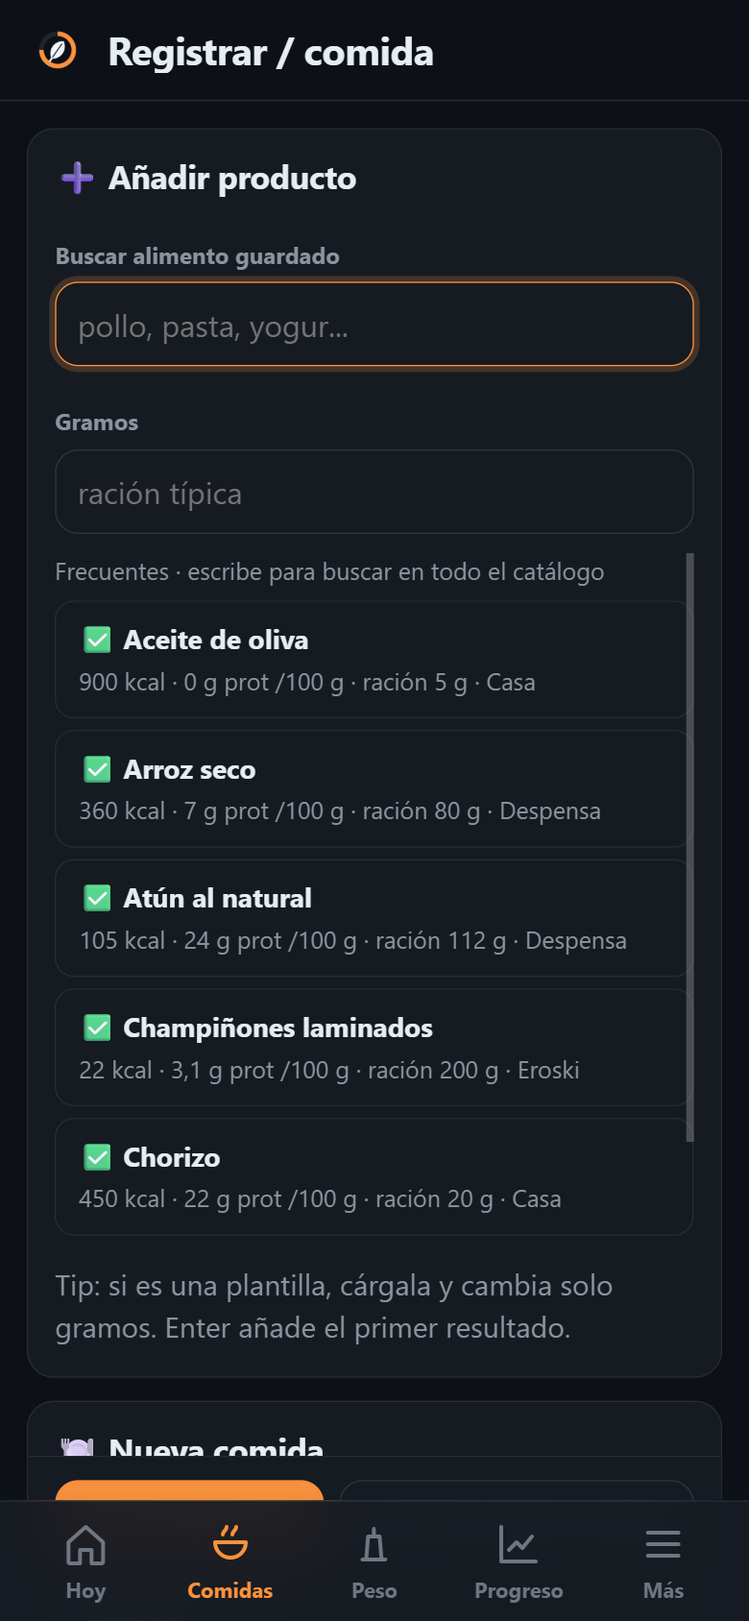
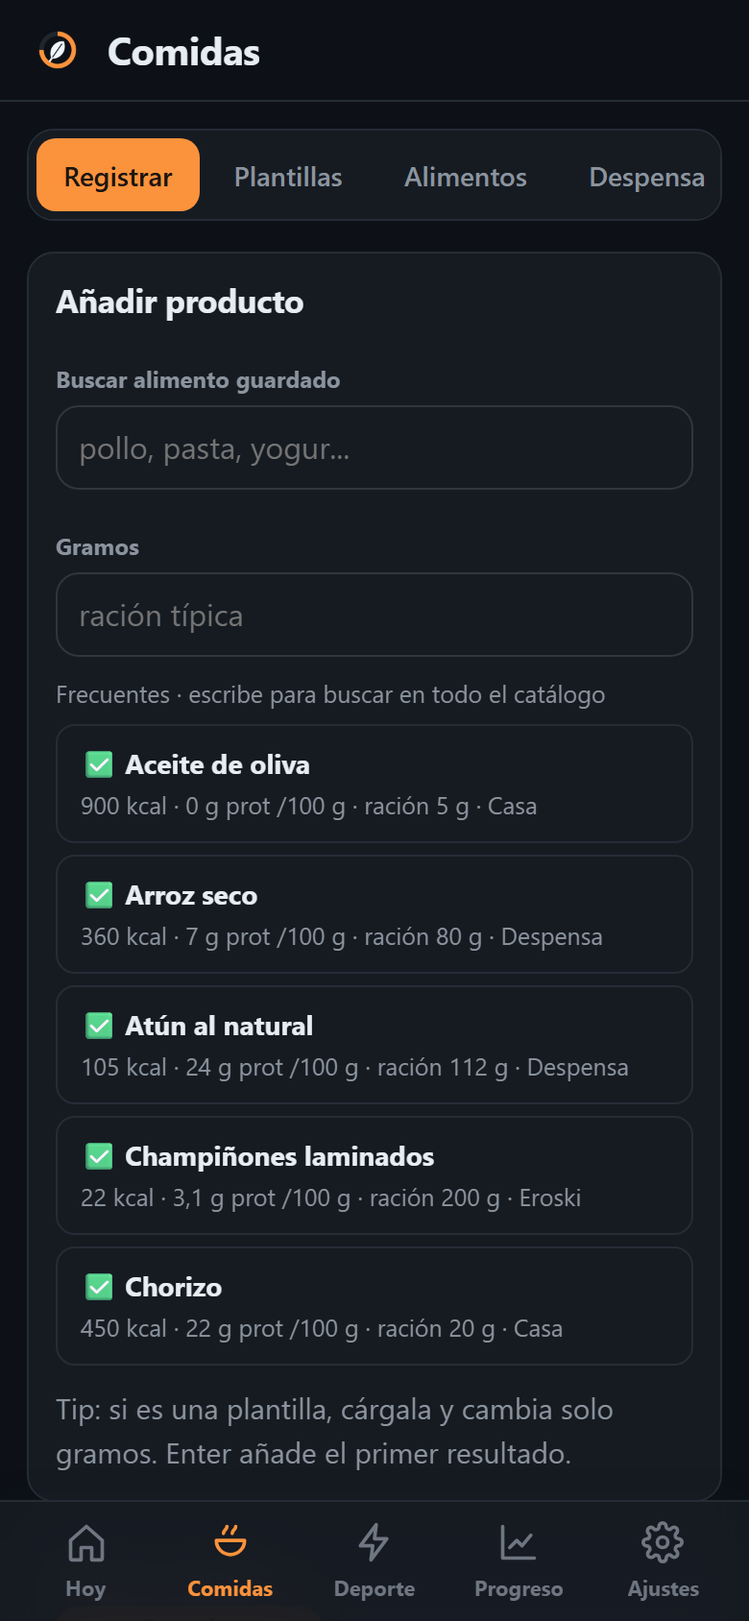
v0.4.0: calmer Deporte and Plan screens, cleaner supermarket catalog, new screenshots

diff --git a/static/app.js b/static/app.js
@@ -165,7 +165,7 @@ function renderRegister() {
   mealItems = [];
   $('#view').innerHTML = `<div class="register-grid">
     <section class="card register-main">
-      <div class="section-title compact-title"><div><h3>🍽 Nueva comida</h3><p>1) carga plantilla o busca alimentos · 2) cambia gramos · 3) guarda</p></div></div>
+      <div class="section-title compact-title"><div><h3>Nueva comida</h3><p>1) carga plantilla o busca alimentos · 2) cambia gramos · 3) guarda</p></div></div>
       <div class="row">
         <div class="field span-3"><label>Fecha</label><input id="mDate" type="date" value="${esc(day())}"></div>
         <div class="field span-2"><label>Hora</label><input id="mTime" type="time" value="${esc(nowHM())}"></div>
@@ -173,7 +173,7 @@ function renderRegister() {
         <div class="field span-4"><label>Notas</label><input id="mNotes" placeholder="pasta seca, tupper, post-HIIT..."></div>
       </div>
       <div class="template-loader">
-        <div><b>⚡ Cargar plantilla</b><small>Se añade a esta comida y puedes cambiar gramos antes de guardar.</small></div>
+        <div><b>Cargar plantilla</b><small>Se añade a esta comida y puedes cambiar gramos antes de guardar.</small></div>
         <select id="tplSelect"><option value="">Elegir plantilla...</option>${templateOptions()}</select>
         <button class="btn secondary" onclick="loadTemplateToMeal($('#tplSelect').value)">Cargar</button>
       </div>
@@ -185,7 +185,7 @@ function renderRegister() {
       </div>
     </section>
     <section class="card add-food-panel" aria-label="Añadir producto">
-      <h3>➕ Añadir producto</h3>
+      <h3>Añadir producto</h3>
       <div class="field"><label>Buscar alimento guardado</label><input id="foodSearch" placeholder="pollo, pasta, yogur..." autocomplete="off" oninput="renderSuggestions()" onkeydown="if(event.key==='Enter'){event.preventDefault();this.closest('.add-food-panel').querySelector('.suggestions button')?.click()}"></div>
       <div class="field" style="margin-top:10px"><label>Gramos</label><input id="foodGrams" type="number" inputmode="decimal" min="0" placeholder="ración típica"></div>
       <div id="suggestions" class="suggestions"></div>
@@ -272,7 +272,7 @@ function renderFoods() {
   <div class="chips food-kinds">${[['all','Todos'],['mine','Míos'],['super','Supermercado'],['generic','Genéricos']].map(([k,l]) => `<button type="button" class="chip${foodKind === k ? ' active' : ''}" onclick="foodKind='${k}';render()">${l}</button>`).join('')}</div>
   <details id="foodForm" class="card"><summary><h3>Nuevo o editar alimento</h3><small>Escanea el código, sube una foto de la etiqueta o escribe los valores por 100 g.</small></summary>
       <div id="foodLookup"></div>
-      <div class="photo-box"><div><b>📷 Foto etiqueta</b><small>OCR real local: sube foto, revisa las sugerencias y guarda.</small></div><input id="fPhoto" type="file" accept="image/*" onchange="uploadFoodPhoto()"><div id="photoPreview"></div></div>
+      <div class="photo-box"><div><b>Foto etiqueta</b><small>OCR real local: sube foto, revisa las sugerencias y guarda.</small></div><input id="fPhoto" type="file" accept="image/*" onchange="uploadFoodPhoto()"><div id="photoPreview"></div></div>
       <div class="row">
         <div class="field span-6"><label>Nombre</label><input id="fName" placeholder="Ej. Yogur Eroski +Proteína 120 g"></div>
         <div class="field span-6"><label>Marca</label><input id="fBrand" placeholder="Eroski, ElPozo..."></div>
@@ -297,7 +297,7 @@ function renderFoods() {
 function renderFoodList() {
   const q = normText($('#foodFilter')?.value);
   const foods = state.foods.filter((f) => foodKindOf(f) && normText(`${f.name} ${f.brand} ${f.barcode || ''}`).includes(q));
-  $('#foodList').innerHTML = (foods.slice(0, listLimit('foods')).map((f) => `<div class="food-row" role="button" tabindex="0" onclick="editFood(${Number(f.id)})"><div><b>${esc(f.name)}</b><small>${esc(f.brand || 'Mío')} · ración ${fmt(f.typical_g)} g</small></div><span class="food-kcal">${fmt(f.kcal)}<small>kcal/100 g</small></span><span class="food-prot">${fmt(f.protein)} g<small>prot</small></span><button class="icon-btn" type="button" aria-label="Borrar ${esc(f.name)}" onclick="event.stopPropagation();deleteFood(${Number(f.id)})">×</button></div>`).join('') || '<div class="empty">Nada con esa búsqueda. Prueba el código de barras en «+ Nuevo».</div>') + moreButton('foods', foods.length);
+  $('#foodList').innerHTML = (foods.slice(0, listLimit('foods')).map((f) => `<div class="food-row" role="button" tabindex="0" onclick="editFood(${Number(f.id)})"><div><b>${esc(f.brand ? f.name.replace(/ · [^·]+$/, '') : f.name)}</b><small>${esc(f.brand || 'Mío')} · ración ${fmt(f.typical_g)} g</small></div><span class="food-kcal">${fmt(f.kcal)}<small>kcal/100 g</small></span><span class="food-prot">${fmt(f.protein)} g<small>prot</small></span><button class="icon-btn" type="button" aria-label="Borrar ${esc(f.name)}" onclick="event.stopPropagation();deleteFood(${Number(f.id)})">×</button></div>`).join('') || '<div class="empty">Nada con esa búsqueda. Prueba el código de barras en «+ Nuevo».</div>') + moreButton('foods', foods.length);
 }
 function fillFoodForm(food) {
   const set = (id, val) => { const el = $(id); if (el && val !== undefined && val !== null) el.value = String(val); };
@@ -348,17 +348,19 @@ async function saveFood(btn) {
 
 /* ---------- Deporte ---------- */
 function ui5SportCard(w) {
-  return `<article class="ui5-sport-card"><div class="ui5-sport-head"><div><b>${esc(w.name || 'Entreno')}</b><small>${esc(w.date || '')} · ${esc(w.time || '')}</small></div><button class="btn small danger" onclick="deleteWorkout(${Number(w.id)})">×</button></div><div class="ui5-sport-metrics"><span><b>${fmt(w.minutes)}</b><small>min</small></span><span><b>${fmt(w.distance_km)}</b><small>km</small></span><span><b>${fmt(w.kcal)}</b><small>kcal</small></span></div><p>${esc(cleanWorkoutNote(w.notes))}</p></article>`;
+  return `<article class="ui5-sport-card"><div class="ui5-sport-head"><div><b>${esc(w.name || 'Entreno')}</b><small>${esc(w.date ? new Date(w.date + 'T12:00:00').toLocaleDateString('es-ES', {weekday: 'short', day: 'numeric', month: 'short'}) : '')} · ${esc(w.time || '')}</small></div><button class="icon-btn" type="button" aria-label="Borrar entreno" onclick="deleteWorkout(${Number(w.id)})">×</button></div><div class="ui5-sport-metrics"><span><b>${fmt(w.minutes)}</b><small>min</small></span>${Number(w.distance_km) > 0 ? `<span><b>${fmt(w.distance_km)}</b><small>km</small></span>` : ''}<span><b>${fmt(w.kcal)}</b><small>kcal</small></span></div>${cleanWorkoutNote(w.notes) ? `<p>${esc(cleanWorkoutNote(w.notes))}</p>` : ''}</article>`;
 }
 function renderSport() {
   const all = [...state.workouts].sort((a, b) => (b.date + b.time).localeCompare(a.date + a.time));
   const last7 = all.filter((w) => Date.now() - new Date(w.date + 'T12:00:00').getTime() <= 7 * 86400000);
   const sum = (k) => last7.reduce((a, w) => a + Number(w[k] || 0), 0);
   $('#view').innerHTML = `
-    <section class="ui5-sport-hero"><div><span class="ui5-kicker">Deporte</span><h3>Registrar o revisar actividad</h3><p>Strava queda como fuente principal; el manual sirve para ajustes rápidos.</p></div>
-      <div class="ui5-sport-summary"><span><b>${fmt(sum('kcal'))}</b><small>kcal 7 días</small></span><span><b>${fmt(sum('minutes'))}</b><small>min 7 días</small></span><span><b>${fmt(sum('distance_km'))}</b><small>km 7 días</small></span></div></section>
+    <section class="ui5-sport-hero"><div class="ui5-sport-summary"><span><b>${fmt(sum('kcal'))}</b><small>kcal 7 días</small></span><span><b>${fmt(sum('minutes'))}</b><small>min 7 días</small></span><span><b>${fmt(sum('distance_km'))}</b><small>km 7 días</small></span></div></section>
+    <div class="section-title ui5-section-title"><div><h3>Historial</h3><p>${all.length} entrenos · últimos primero</p></div><button class="btn" type="button" onclick="const d=$('#sportForm');d.open=true;d.scrollIntoView({behavior:'smooth'})">+ Entreno</button></div>
+    <div class="ui5-sport-history">${all.slice(0, listLimit('sport')).map(ui5SportCard).join('')}</div>${moreButton('sport', all.length)}
+    <details id="sportForm" class="card"><summary><h3>Añadir entreno o tipo de ejercicio</h3><small>Strava importa solo; esto es para ajustes manuales.</small></summary>
     <div class="ui5-sport-layout">
-      <div class="card ui5-sport-form"><h3>🏋 Nuevo entreno</h3><div class="row compact-row">
+      <div class="card ui5-sport-form"><h3>Nuevo entreno</h3><div class="row compact-row">
         <div class="field span-3"><label>Fecha</label><input id="sDate" type="date" value="${esc(day())}"></div>
         <div class="field span-2"><label>Hora</label><input id="sTime" type="time" value="${esc(nowHM())}"></div>
         <div class="field span-4"><label>Ejercicio</label><select id="sName">${state.exercises.map((e) => `<option>${esc(e.name)}</option>`).join('')}</select></div>
@@ -368,15 +370,14 @@ function renderSport() {
         <div class="field span-6"><label>Notas</label><input id="sNotes" placeholder="Strava, reloj, sensación, etc."></div>
         <div class="field span-3"><label>&nbsp;</label><button class="btn" onclick="saveWorkout(this)">Guardar entreno</button></div>
       </div></div>
-      <div class="card ui5-exercise-form"><h3>➕ Tipo ejercicio</h3><p class="muted">Añade solo si falta un tipo manual. Para Strava no hace falta.</p><div class="row compact-row">
+      <div class="card ui5-exercise-form"><h3>Tipo ejercicio</h3><p class="muted">Añade solo si falta un tipo manual. Para Strava no hace falta.</p><div class="row compact-row">
         <div class="field span-6"><label>Nombre</label><input id="eName" placeholder="Ej. Caminata suave"></div>
         <div class="field span-3"><label>MET</label><input id="eMet" type="number" value="5"></div>
         <div class="field span-3"><label>&nbsp;</label><button class="btn secondary" onclick="saveExercise(this)">Guardar</button></div>
         <div class="field span-12"><label>Notas</label><input id="eNotes"></div>
       </div></div>
     </div>
-    <div class="section-title ui5-section-title"><div><h3>Historial deporte</h3><p>${all.length} entrenos · últimos primero</p></div></div>
-    <div class="ui5-sport-history">${all.slice(0, listLimit('sport')).map(ui5SportCard).join('')}</div>${moreButton('sport', all.length)}`;
+    </details>`;
 }
 async function saveWorkout(btn) {
   await busy(btn, async () => {
@@ -455,7 +456,7 @@ function ui5ApplyShell() {
 }
 function openHelpModal() {
   closeHelpModal(); const o = document.createElement('div'); o.id = 'helpOverlay'; o.className = 'help-overlay';
-  o.innerHTML = `<div class="help-modal" role="dialog" aria-modal="true" aria-label="Ayuda"><button class="help-close" onclick="closeHelpModal()" aria-label="Cerrar">×</button><span class="ui5-kicker">Ayuda rápida</span><h2>Diet Pro Planner</h2><div class="help-grid"><div><b>🍽 Comidas</b><p>Busca alimentos o carga una plantilla, cambia gramos y guarda. ↻ repite una comida.</p></div><div><b>⚖ Peso</b><p>Oficial por la mañana. Post-comida, noche o post-entreno son referencia.</p></div><div><b>📈 Progreso</b><p>Tendencia real, ritmo kg/semana y tu gasto energético medido con tus propios datos.</p></div><div><b>🥫 Alimentos</b><p>Código de barras (Open Food Facts), OCR de etiqueta o IA opcional.</p></div><div><b>🎯 Objetivos</b><p>Tus metas de peso, kcal y proteína. Copias de seguridad y exportación.</p></div><div><b>🔐 Privacidad</b><p>Todo se guarda en tu Raspberry. La IA y Open Food Facts son opcionales.</p></div></div><div class="help-actions"><button class="btn" onclick="closeHelpModal();go('register')">Registrar comida</button><button class="btn secondary" onclick="closeHelpModal();go('progress')">Progreso</button><button class="btn secondary" onclick="closeHelpModal();go('goals')">Objetivos</button></div></div>`;
+  o.innerHTML = `<div class="help-modal" role="dialog" aria-modal="true" aria-label="Ayuda"><button class="help-close" onclick="closeHelpModal()" aria-label="Cerrar">×</button><span class="ui5-kicker">Ayuda rápida</span><h2>Diet Pro Planner</h2><div class="help-grid"><div><b>Comidas</b><p>Busca alimentos o carga una plantilla, cambia gramos y guarda. ↻ repite una comida.</p></div><div><b>Peso</b><p>Oficial por la mañana. Post-comida, noche o post-entreno son referencia.</p></div><div><b>Progreso</b><p>Tendencia real, ritmo kg/semana y tu gasto energético medido con tus propios datos.</p></div><div><b>Alimentos</b><p>Código de barras (Open Food Facts), OCR de etiqueta o IA opcional.</p></div><div><b>Objetivos</b><p>Tus metas de peso, kcal y proteína. Copias de seguridad y exportación.</p></div><div><b>Privacidad</b><p>Todo se guarda en tu Raspberry. La IA y Open Food Facts son opcionales.</p></div></div><div class="help-actions"><button class="btn" onclick="closeHelpModal();go('register')">Registrar comida</button><button class="btn secondary" onclick="closeHelpModal();go('progress')">Progreso</button><button class="btn secondary" onclick="closeHelpModal();go('goals')">Objetivos</button></div></div>`;
   o.onclick = (ev) => { if (ev.target.id === 'helpOverlay') closeHelpModal(); }; document.body.appendChild(o);
 }
 function closeHelpModal() { document.getElementById('helpOverlay')?.remove(); }

diff --git a/static/js/features/plan-editor.js b/static/js/features/plan-editor.js
@@ -88,7 +88,7 @@
   };
   window.ui5ExportPlanJson = () => {
     const raw = JSON.stringify(readDom(), null, 2);
-    const box = $('#planRaw'); if (box) box.value = raw;
+    const box = $('#planRaw'); if (box) { box.value = raw; box.closest('details')?.setAttribute('open', ''); }
     navigator.clipboard?.writeText(raw).then(() => toast('JSON copiado')).catch(() => toast('JSON listo abajo'));
   };
   window.savePlan = async (btn) => {
@@ -98,13 +98,13 @@
   window.renderPlan = function () {
     const p = currentPlan(); const st = stats(p);
     $('#view').innerHTML = `
-      <section class="ui5-plan-hero2"><div><span class="ui5-kicker">Plan semanal previsto</span><h3>Plan previsto editable. El real registrado se consulta en Historial.</h3><p>Si el plan anterior venía roto, pulsa “Cargar plan base” o “Completar semana”.</p></div>
-        <div id="ui5PlanStats" class="ui5-plan-stats"><span><b>${st.days}</b><small>días</small></span><span><b>${st.planned}</b><small>con comidas</small></span><span><b>${st.missing}</b><small>faltan</small></span></div></section>
+      <section class="ui5-plan-hero2"><div id="ui5PlanStats" class="ui5-plan-stats"><span><b>${st.days}</b><small>días</small></span><span><b>${st.planned}</b><small>con comidas</small></span><span><b>${st.missing}</b><small>sin comidas</small></span></div></section>
       <section class="card ui5-plan-toolbar">
         <div class="row compact-row"><div class="field span-5"><label>Nombre del plan</label><input id="planName" value="${esc(p.name)}" oninput="ui5RefreshPlanStats()"></div><div class="field span-7"><label>Notas</label><input id="planNotes" value="${esc(p.notes)}" oninput="ui5RefreshPlanStats()"></div></div>
-        <div class="ui5-plan-actions"><button class="btn" onclick="ui5SaveEditablePlan(this)">Guardar cambios</button><button class="btn secondary" onclick="ui5AddPlanDay()">Añadir día</button><button class="btn secondary" onclick="ui5CompletePlanWeek()">Completar semana</button><button class="btn secondary" onclick="ui5ApplyDefaultPlan()">Cargar plan base</button><button class="btn secondary" onclick="ui5ExportPlanJson()">Copiar/mostrar JSON</button></div>
+        <div class="ui5-plan-actions"><button class="btn" onclick="ui5SaveEditablePlan(this)">Guardar cambios</button><button class="btn secondary" onclick="ui5AddPlanDay()">Añadir día</button></div>
+        <details class="plan-more"><summary>Más opciones</summary><div class="ui5-plan-actions"><button class="btn secondary" onclick="ui5CompletePlanWeek()">Completar semana</button><button class="btn secondary" onclick="ui5ApplyDefaultPlan()">Cargar plan base</button><button class="btn secondary" onclick="ui5ExportPlanJson()">Copiar JSON</button></div></details>
       </section>
       <section id="ui5PlanBoard" class="ui5-edit-plan-board">${p.days.map(dayHtml).join('')}</section>
-      <section class="card ui5-plan-json"><h3>JSON del plan</h3><p class="muted">Para importar otro plan: pega JSON y pulsa importar.</p><textarea id="planRaw" placeholder='{"name":"Semana...","days":[...]}'></textarea><button class="btn secondary" onclick="savePlan(this)">Importar JSON pegado</button></section>`;
+      <details class="card ui5-plan-json"><summary><h3>Importar un plan (JSON)</h3></summary><textarea id="planRaw" placeholder='{"name":"Semana...","days":[...]}'></textarea><button class="btn secondary" onclick="savePlan(this)">Importar JSON pegado</button></details>`;
   };
 })();

diff --git a/static/index.html b/static/index.html
@@ -12,9 +12,9 @@
   <link rel="manifest" href="/static/manifest.webmanifest" />
   <link rel="icon" type="image/png" href="/static/icon-192.png" />
   <link rel="apple-touch-icon" href="/static/icon-192.png" />
-  <link rel="stylesheet" href="/static/css/base.css?v=039">
-  <link rel="stylesheet" href="/static/css/pages.css?v=039">
-  <link rel="stylesheet" href="/static/css/home.css?v=039">
+  <link rel="stylesheet" href="/static/css/base.css?v=040">
+  <link rel="stylesheet" href="/static/css/pages.css?v=040">
+  <link rel="stylesheet" href="/static/css/home.css?v=040">
 </head>
 <body>
   <div class="app-shell">
@@ -32,22 +32,22 @@
     </main>
   </div>
   <div id="toast" class="toast" role="status" aria-live="polite"></div>
-  <script src="/static/js/dashboard/meal-card.global.js?v=039"></script>
-  <script src="/static/js/dashboard/workout-card.global.js?v=039"></script>
-  <script src="/static/app.js?v=039"></script>
-  <script src="/static/js/core/shell.js?v=039"></script>
-  <script src="/static/js/features/charts.js?v=039"></script>
-  <script src="/static/js/features/home.js?v=039"></script>
-  <script src="/static/js/features/plan-editor.js?v=039"></script>
-  <script src="/static/js/features/progress.js?v=039"></script>
-  <script src="/static/js/features/goals.js?v=039"></script>
-  <script src="/static/js/features/food-lookup.js?v=039"></script>
-  <script src="/static/js/features/ai-coach.js?v=039"></script>
-  <script src="/static/dashboard-coach-v17.js?v=039"></script>
-  <script src="/static/strava-v018.js?v=039"></script>
-  <script src="/static/pantry-v019.js?v=039"></script>
-  <script src="/static/pantry-v019-polish.js?v=039"></script>
-  <script src="/static/activity-plan-v020.js?v=039"></script>
-  <script defer src="/static/mobile-bottom-nav.js?v=039"></script>
+  <script src="/static/js/dashboard/meal-card.global.js?v=040"></script>
+  <script src="/static/js/dashboard/workout-card.global.js?v=040"></script>
+  <script src="/static/app.js?v=040"></script>
+  <script src="/static/js/core/shell.js?v=040"></script>
+  <script src="/static/js/features/charts.js?v=040"></script>
+  <script src="/static/js/features/home.js?v=040"></script>
+  <script src="/static/js/features/plan-editor.js?v=040"></script>
+  <script src="/static/js/features/progress.js?v=040"></script>
+  <script src="/static/js/features/goals.js?v=040"></script>
+  <script src="/static/js/features/food-lookup.js?v=040"></script>
+  <script src="/static/js/features/ai-coach.js?v=040"></script>
+  <script src="/static/dashboard-coach-v17.js?v=040"></script>
+  <script src="/static/strava-v018.js?v=040"></script>
+  <script src="/static/pantry-v019.js?v=040"></script>
+  <script src="/static/pantry-v019-polish.js?v=040"></script>
+  <script src="/static/activity-plan-v020.js?v=040"></script>
+  <script defer src="/static/mobile-bottom-nav.js?v=040"></script>
 </body>
 </html>

diff --git a/static/js/features/goals.js b/static/js/features/goals.js
@@ -34,14 +34,14 @@
     const status = ai.enabled
       ? `<span class="pill good">Activa</span> ${esc(ai.provider === 'anthropic' ? 'Claude' : 'Compatible OpenAI')} · <code>${esc(ai.model)}</code> · ${ai.used_today}/${ai.daily_limit} usos hoy`
       : '<span class="pill warn">Desactivada</span> El Coach local por reglas sigue funcionando.';
-    return `<article class="card goals-card"><h3>🤖 IA opcional (BYOK)</h3><p>${status}</p>
+    return `<article class="card goals-card"><h3>IA opcional (BYOK)</h3><p>${status}</p>
       <p class="muted">${esc(ai.privacy)}</p>
       ${ai.enabled ? '' : '<p class="muted">Para activarla añade <code>ANTHROPIC_API_KEY</code> a tu <code>.env</code> (o <code>DPP_AI_BASE_URL</code> + <code>DPP_AI_MODEL</code> para Ollama/compatibles) y reinicia. La clave nunca se guarda en la base de datos.</p>'}</article>`;
   }
 
   function dataPanel(b) {
     const list = (b?.backups || []).slice(0, 6).map((x) => `<li><b>${esc(x.name)}</b><small>${esc(x.created_at)} · ${nf(x.size_kb)} KB</small></li>`).join('');
-    return `<article class="card goals-card"><h3>💾 Copias y exportación</h3>
+    return `<article class="card goals-card"><h3>Copias y exportación</h3>
       <p class="muted">Copia automática diaria (se guardan ${nf(b?.keep_daily)}) y antes de cada actualización de esquema. Esquema v${esc(b?.schema_version ?? '?')}.</p>
       <div class="goals-actions"><a class="btn" href="/api/backup/download">Descargar copia (.db)</a><button class="btn secondary" onclick="dppBackupNow(this)">Crear copia ahora</button></div>
       <div class="goals-actions"><a class="btn secondary" href="/api/export/meals.csv">Comidas CSV</a><a class="btn secondary" href="/api/export/weights.csv">Pesos CSV</a><a class="btn secondary" href="/api/export/workouts.csv">Entrenos CSV</a><a class="btn secondary" href="/api/export" target="_blank" rel="noopener">JSON</a></div>
@@ -52,7 +52,7 @@
     const p = data.profile;
     return `<section class="pg-head"><div><span class="ui5-kicker">Objetivos personales</span><h3>Tus metas mandan sobre todo el análisis</h3><p class="muted">Coach, score, Progreso e IA usan estos valores. Nada sale de tu Raspberry.</p></div></section>
       <article class="card goals-card">${computedPanel(data)}</article>
-      <article class="card goals-card"><h3>🎯 Perfil y metas</h3>
+      <article class="card goals-card"><h3>Perfil y metas</h3>
         <div class="row">
           ${select('gSex', 'Sexo (para el basal)', {'': '—', male: 'Hombre', female: 'Mujer'}, p.sex)}
           ${field('gBirth', 'Año de nacimiento', p.birth_year, 'type="number" inputmode="numeric" placeholder="1990"')}

diff --git a/static/css/pages.css b/static/css/pages.css
@@ -142,7 +142,7 @@
 .ui5-sport-card { padding: 12px; border: 1px solid var(--border); border-radius: 12px; background: var(--surface); display: grid; gap: 8px; }
 .ui5-sport-head { display: flex; justify-content: space-between; gap: 8px; }
 .ui5-sport-head small { display: block; color: var(--text-2); }
-.ui5-sport-metrics { display: grid; grid-template-columns: repeat(3, 1fr); gap: 6px; }
+.ui5-sport-metrics { display: grid; grid-template-columns: repeat(auto-fit, minmax(80px, 1fr)); gap: 6px; }
 .ui5-sport-metrics span { display: grid; padding: 6px 8px; border-radius: 8px; background: var(--surface-2); }
 .ui5-sport-metrics small { color: var(--text-3); font-size: 11.5px; }
 .ui5-sport-card p { color: var(--text-2); font-size: 12.5px; }

diff --git a/static/js/features/food-lookup.js b/static/js/features/food-lookup.js
@@ -14,7 +14,7 @@
     if (!host) return;
     const canScan = 'BarcodeDetector' in window && navigator.mediaDevices?.getUserMedia;
     host.innerHTML = `<div class="lookup-box">
-      <div><b>🔎 Buscar producto</b><small>Código de barras o nombre · Open Food Facts</small></div>
+      <div><b>Buscar producto</b><small>Código de barras o nombre · Open Food Facts</small></div>
       <div class="lookup-row">
         <input id="lookupQuery" placeholder="8410000000000 o “yogur proteico”" autocomplete="off" inputmode="search" onkeydown="if(event.key==='Enter'){event.preventDefault();dppLookup()}">
         <button class="btn secondary" type="button" onclick="dppLookup(this)">Buscar</button>

diff --git a/static/css/base.css b/static/css/base.css
@@ -276,3 +276,6 @@ input:focus, select:focus, textarea:focus { outline: none; border-color: var(--p
 .icon-btn { width: 32px; height: 32px; border-radius: 8px; border: 0; background: transparent; color: var(--text-2); font-size: 20px; cursor: pointer; }
 .icon-btn:hover { color: var(--bad, #e5484d); }
 @media (max-width: 480px) { .food-prot { display: none; } .food-row { grid-template-columns: 1fr auto 32px; } }
+.plan-more { margin-top: 10px; }
+.plan-more > summary, .ui5-plan-json > summary { cursor: pointer; color: var(--text-2); list-style: none; }
+.ui5-plan-json > summary h3 { display: inline; }

diff --git a/dpp_catalog.py b/dpp_catalog.py
@@ -137,3 +137,33 @@ def add_supermarket(db: sqlite3.Connection) -> int:
         db.execute(f"INSERT INTO foods({keys}) VALUES({', '.join('?' for _ in data)})", tuple(data.values()))
         added += 1
     return added
+
+
+def _in_use(db: sqlite3.Connection, food_id: int, name: str) -> bool:
+    """True when meals, templates or plans refer to this food (by id or by name)."""
+    if db.execute("SELECT 1 FROM meal_items WHERE food_id=? OR food_name=? LIMIT 1", (food_id, name)).fetchone():
+        return True
+    have = {r[0] for r in db.execute("SELECT name FROM sqlite_master WHERE type='table'")}
+    for table in ("templates", "plans"):
+        if table in have and db.execute(f"SELECT 1 FROM {table} WHERE instr(payload, ?) > 0 LIMIT 1", (name,)).fetchone():  # noqa: S608 - fixed table names
+            return True
+    return False
+
+
+def refresh_supermarket(db: sqlite3.Connection) -> int:
+    """Rename or retire supermarket rows that an older catalog added; foods in use are never touched."""
+    wanted = {f["barcode"]: f["name"] for f in supermarket_foods()}
+    names = {r[0].lower() for r in db.execute("SELECT name FROM foods")}
+    changed = 0
+    for fid, name, code in db.execute("SELECT id, name, barcode FROM foods WHERE source_note=?", (SUPERMARKET_NOTE,)).fetchall():
+        if _in_use(db, fid, name):
+            continue
+        new = wanted.get(code)
+        if new is None:
+            db.execute("DELETE FROM foods WHERE id=?", (fid,))
+            changed += 1
+        elif new != name and new.lower() not in names:
+            db.execute("UPDATE foods SET name=? WHERE id=?", (new, fid))
+            names.add(new.lower())
+            changed += 1
+    return changed + add_supermarket(db)

diff --git a/dpp_db.py b/dpp_db.py
@@ -226,6 +226,13 @@ def _m7_supermarket_catalog(db: sqlite3.Connection) -> None:
         dpp_catalog.add_supermarket(db)
 
 
+def _m8_supermarket_cleanup(db: sqlite3.Connection) -> None:
+    """Tidy the supermarket catalog added by migration 7 (clearer names, no foreign-language rows)."""
+    if _table_exists(db, "foods") and _table_exists(db, "meal_items"):
+        import dpp_catalog
+        dpp_catalog.refresh_supermarket(db)
+
+
 MIGRATIONS: list[tuple[int, str, Callable[[sqlite3.Connection], None]]] = [
     (1, "meals without UNIQUE constraint", _m1_meals_without_unique),
     (2, "indexes + workouts.source/external_id", _m2_indexes_and_workout_source),
@@ -234,6 +241,7 @@ MIGRATIONS: list[tuple[int, str, Callable[[sqlite3.Connection], None]]] = [
     (5, "repair meal items stored without macros", _m5_repair_zero_macro_items),
     (6, "generic food catalog (only missing names)", _m6_generic_catalog),
     (7, "Spanish supermarket products (only missing barcodes)", _m7_supermarket_catalog),
+    (8, "supermarket catalog cleanup (names, unused foreign rows)", _m8_supermarket_cleanup),
 ]
 SCHEMA_VERSION = MIGRATIONS[-1][0]
 

diff --git a/dpp_config.py b/dpp_config.py
@@ -11,7 +11,7 @@ import os
 from pathlib import Path
 
 APP_NAME = "Diet Pro Planner"
-VERSION = "v0.3.9"
+VERSION = "v0.4.0"
 
 BASE_DIR = Path(__file__).resolve().parent
 

diff --git a/README.md b/README.md
@@ -11,10 +11,11 @@
 [![License: MIT](https://img.shields.io/badge/License-MIT-yellow.svg)](LICENSE)
 [![Local-first](https://img.shields.io/badge/data-stays%20on%20your%20server-167D62)](#privacy)
 
-<img src="docs/screenshots/resumen.png" width="200" alt="Today: week strip, daily balance and tiles">&nbsp;
-<img src="docs/screenshots/tu-dia.png" width="200" alt="The day as a timeline with the Coach">&nbsp;
-<img src="docs/screenshots/comidas.png" width="200" alt="Logging a meal">&nbsp;
-<img src="docs/screenshots/progreso.png" width="200" alt="Progress: trend, real rate and goal date">
+<img src="docs/screenshots/resumen.png" width="150" alt="Hoy: week strip, daily balance and tiles">&nbsp;
+<img src="docs/screenshots/tu-dia.png" width="150" alt="The day as a timeline with the Coach">&nbsp;
+<img src="docs/screenshots/alimentos.png" width="150" alt="Foods: search, filters and Spanish supermarket products">&nbsp;
+<img src="docs/screenshots/deporte.png" width="150" alt="Sport: weekly totals and workout history">&nbsp;
+<img src="docs/screenshots/progreso.png" width="150" alt="Progress: trend, real rate and goal date">
 
 <sub>Screenshots use demo data. The interface is in Spanish.</sub>
 
@@ -32,6 +33,7 @@ to eat next. Everything lives on your own server.
 | --- | --- |
 | **Today at a glance** | Week strip, daily balance (kcal left, intake by meal, workout), protein / weight / sport / rate tiles with mini charts, and your day as a timeline. |
 | **Fast logging** | Search your catalog, load templates, change grams and save; repeat any meal with one tap. Barcode and name search via Open Food Facts, label OCR on-device. |
+| **Spanish catalog** | About 60 generic foods plus ~170 own-brand products from Mercadona (Hacendado), Eroski, Consum and Lidl (Milbona), with barcode and label values. Search-first list with Todos / Míos / Supermercado / Genéricos filters. |
 | **Smart Coach** | Suggests the next meal from what is actually in your pantry and what the day still needs; works without AI. |
 | **Real progress** | Trend weight (EMA), real kg/week, goal date and measured TDEE from your own data; adherence and weekly tables. |
 | **Sport** | Strava import with auto-sync, manual workouts, planned vs real training week. |
@@ -39,6 +41,18 @@ to eat next. Everything lives on your own server.
 | **Optional AI (BYOK)** | Claude or a local Ollama for coaching and label reading; off by default. |
 | **Web app** | Installable on the phone, dark theme, home-screen shortcuts, works offline with the last data seen. |
 | **Safe data** | Versioned migrations with automatic backups, daily copies, SQLite download and CSV export. |
+
+## Navigation
+
+Five sections, the same on desktop (sidebar) and phone (bottom bar); the pages inside a section are tabs at the top.
+
+| Section | Tabs |
+| --- | --- |
+| **Hoy** | Day summary, timeline and Coach |
+| **Comidas** | Registrar · Plantillas · Alimentos · Despensa · Plan semanal |
+| **Deporte** | Entrenos · Plan · Strava |
+| **Progreso** | Tendencias · Peso · Historial |
+| **Ajustes** | Objetivos, Ayuda, Exportar datos, Salir |
 
 ## Quick start
 

diff --git a/CHANGELOG.md b/CHANGELOG.md
@@ -1,5 +1,13 @@
 # Changelog
 
+## v0.4.0 — Calmer screens, cleaner catalog
+
+- Deporte opens on your history (week totals, then workouts); adding a workout or exercise type is folded under '+ Entreno'. Dates read 'lun, 19 oct' and empty metrics (0 km) are hidden.
+- Plan semanal: one short header with the day counts, two main actions (save, add day) and the rest under 'Más opciones'; JSON import is folded away.
+- One icon style: card titles no longer start with emoji (status icons stay).
+- Supermarket catalog cleanup (migration 8): readable names, no foreign-language rows (about 167 products); products you already use in meals, templates or plans are never renamed or removed. Brand suffix is hidden in the list where the brand is already shown.
+- README: navigation table and fresh screenshots (Hoy, Tu día, Alimentos, Deporte, Progreso).
+
 ## v0.3.9 — Spanish supermarket products, simpler food list
 
 - 200 own-brand products from Mercadona (Hacendado), Eroski, Consum and Lidl (Milbona), with barcode and label values from Open Food Facts (ODbL). Added by migration 7 only when the barcode or name is new.
